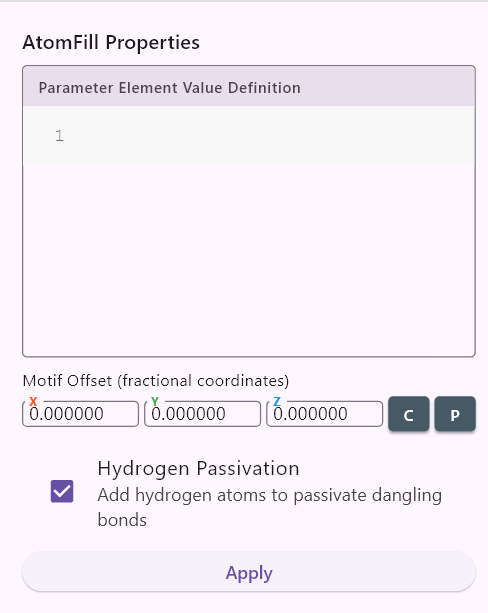
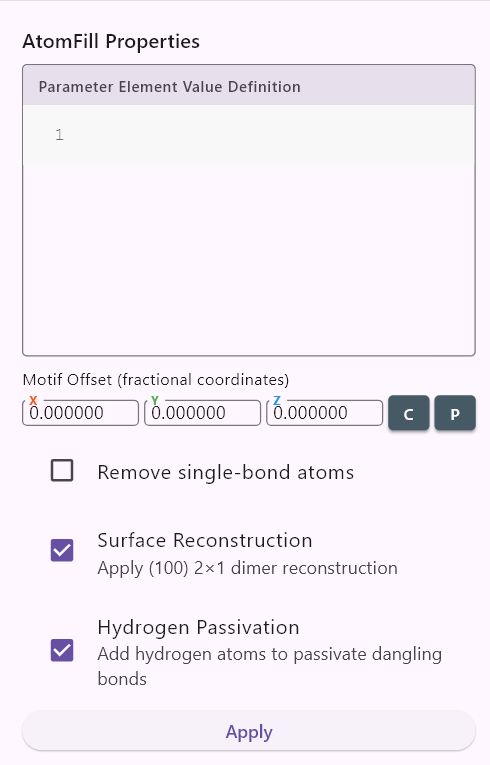
document surface reconstructions

diff --git a/doc/atomCAD_reference_guide.md b/doc/atomCAD_reference_guide.md
@@ -765,6 +765,16 @@ The primary element changes from carbon to silicon:
 
 You can also change the fractional motif offset vector. (Each component should be between 0 and 1). This can be useful to finetune where the cuts should be made on the crystal to avoid unwanted features like the methyl groups.
 
+If the geometry cut is done such a way that an atom has no bonds that is removed automatically. (Lone atom removal.)
+
+You can switch on or off the following checkboxes:
+
+- *Remove single-bond atoms:* If turned on, atoms which only have one bond after the cut are removed. This is done recursively until there is no such atom in the atomic structure.
+- *Surface reconstruction:* Real crystalline surfaces are rarely ideal bulk terminations; instead, they typically undergo *surface reconstructions* that lower their surface energy. atomCAD will support several reconstruction types depending on the crystal structure. At present, reconstruction is implemented only for **cubic diamond** crystals and only for the most important one: the **(100) 2×1 dimer reconstruction**.
+  If reconstruction is enabled for any other crystal type, the setting has no effect.
+  The (100) 2×1 reconstruction automatically removes single-bond (dangling) atoms even if the *Remove single-bond atoms* option is not enabled. Surface reconstruction can be used together with hydrogen passivation or on its own.
+- *Hydrogen passivation:* Hydrogen atoms are added to passivate dangling bonds created by the cut.
+
 #### atom_trans
 
 The atom_trans node transforms atomic structures. The transformation happens not in integer lattice space but in continuous space (real-space) where one unit is one angstrom.
